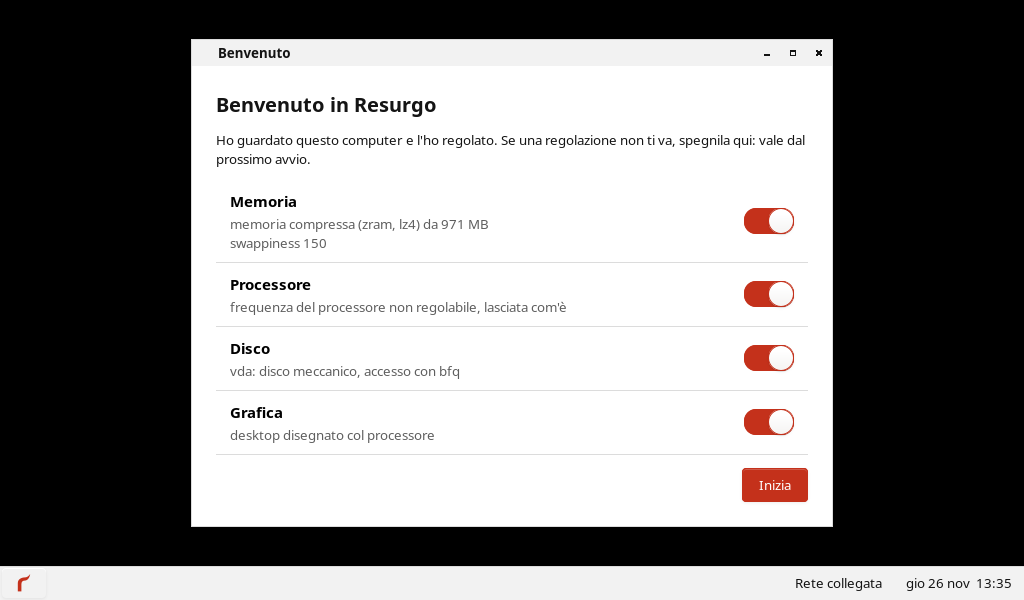
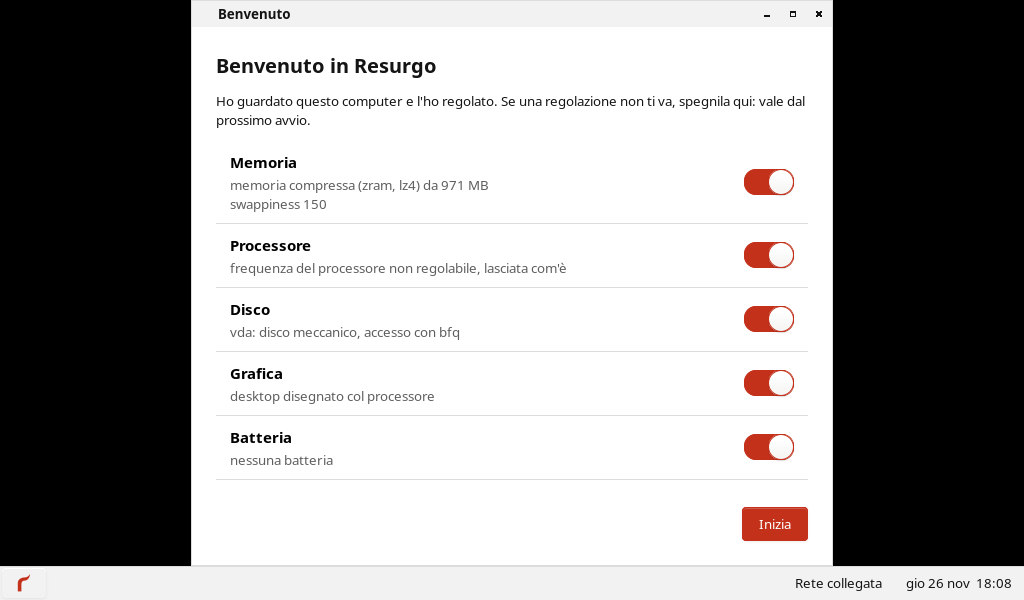
benvenuto alto quanto le sue righe, immagini ricostruite con mantice r8 e resurgo-shell r5

diff --git a/shell/benvenuto.c b/shell/benvenuto.c
@@ -79,8 +79,8 @@ int main(int argc, char **argv) {
 
 	GtkWidget *finestra = gtk_window_new(GTK_WINDOW_TOPLEVEL);
 	gtk_window_set_title(GTK_WINDOW(finestra), "Benvenuto");
-	/* sei aree: alta abbastanza da vederle tutte, e ancora sopra il pannello a 1024x600 */
-	gtk_window_set_default_size(GTK_WINDOW(finestra), 640, 540);
+	/* larga 640; l'altezza la decide l'elenco (vedi sotto) */
+	gtk_window_set_default_size(GTK_WINDOW(finestra), 640, -1);
 	g_signal_connect(finestra, "destroy", G_CALLBACK(gtk_main_quit), NULL);
 
 	GtkWidget *scatola = gtk_box_new(GTK_ORIENTATION_VERTICAL, 12);
@@ -131,6 +131,14 @@ int main(int argc, char **argv) {
 	}
 	GtkWidget *scorri = gtk_scrolled_window_new(NULL, NULL);
 	gtk_scrolled_window_set_policy(GTK_SCROLLED_WINDOW(scorri), GTK_POLICY_NEVER, GTK_POLICY_AUTOMATIC);
+	/* l'elenco e' alto quanto le sue righe, cosi' nessuna resta tagliata a meta'. se lo schermo e' basso
+	 * (netbook a 600 righe) si ferma prima e scorre: 260 sono titolo, testo, pulsante, bordi e pannello */
+	int alto = 600;
+	GdkMonitor *schermo = gdk_display_get_primary_monitor(gdk_display_get_default());
+	if (!schermo) schermo = gdk_display_get_monitor(gdk_display_get_default(), 0);
+	if (schermo) { GdkRectangle r; gdk_monitor_get_workarea(schermo, &r); alto = r.height; }
+	gtk_scrolled_window_set_propagate_natural_height(GTK_SCROLLED_WINDOW(scorri), TRUE);
+	gtk_scrolled_window_set_max_content_height(GTK_SCROLLED_WINDOW(scorri), MAX(alto - 260, 160));
 	gtk_container_add(GTK_CONTAINER(scorri), elenco);
 	gtk_box_pack_start(GTK_BOX(scatola), scorri, TRUE, TRUE, 0);
 

diff --git a/docs/misure-tappa-7.md b/docs/misure-tappa-7.md
@@ -60,7 +60,9 @@ Con edk2 il firmware si fermava prima di GRUB, nello stesso punto sul Mac e sul 
 
 ![riscv64 con U-Boot](foto/riscv64-uboot.png)
 
-La foto è dell'immagine costruita prima delle ultime correzioni di Mantice, per questo il benvenuto mostra quattro aree. I pacchetti nuovi (mantice r8) sono compilati per tutte e cinque le architetture, l'immagine riscv64 non è ancora ricostruita.
+Il 26/11 sera ho ricostruito pacchetti e immagini di tutte e cinque le architetture (mantice r8, resurgo-shell r5): x86 e x86_64 sul .51, aarch64, armv7 e riscv64 sul Mac. Partono tutte fino al desktop.
+
+Rifacendo le foto ho visto che il benvenuto, con sei aree, tagliava a metà l'ultima riga. Ora l'elenco è alto quanto le sue righe, finché lo schermo lo permette: a 1280x800 si vedono tutte e sei, a 1024x600 cinque e la sesta si raggiunge scorrendo.
 
 ## Cosa manca
 
